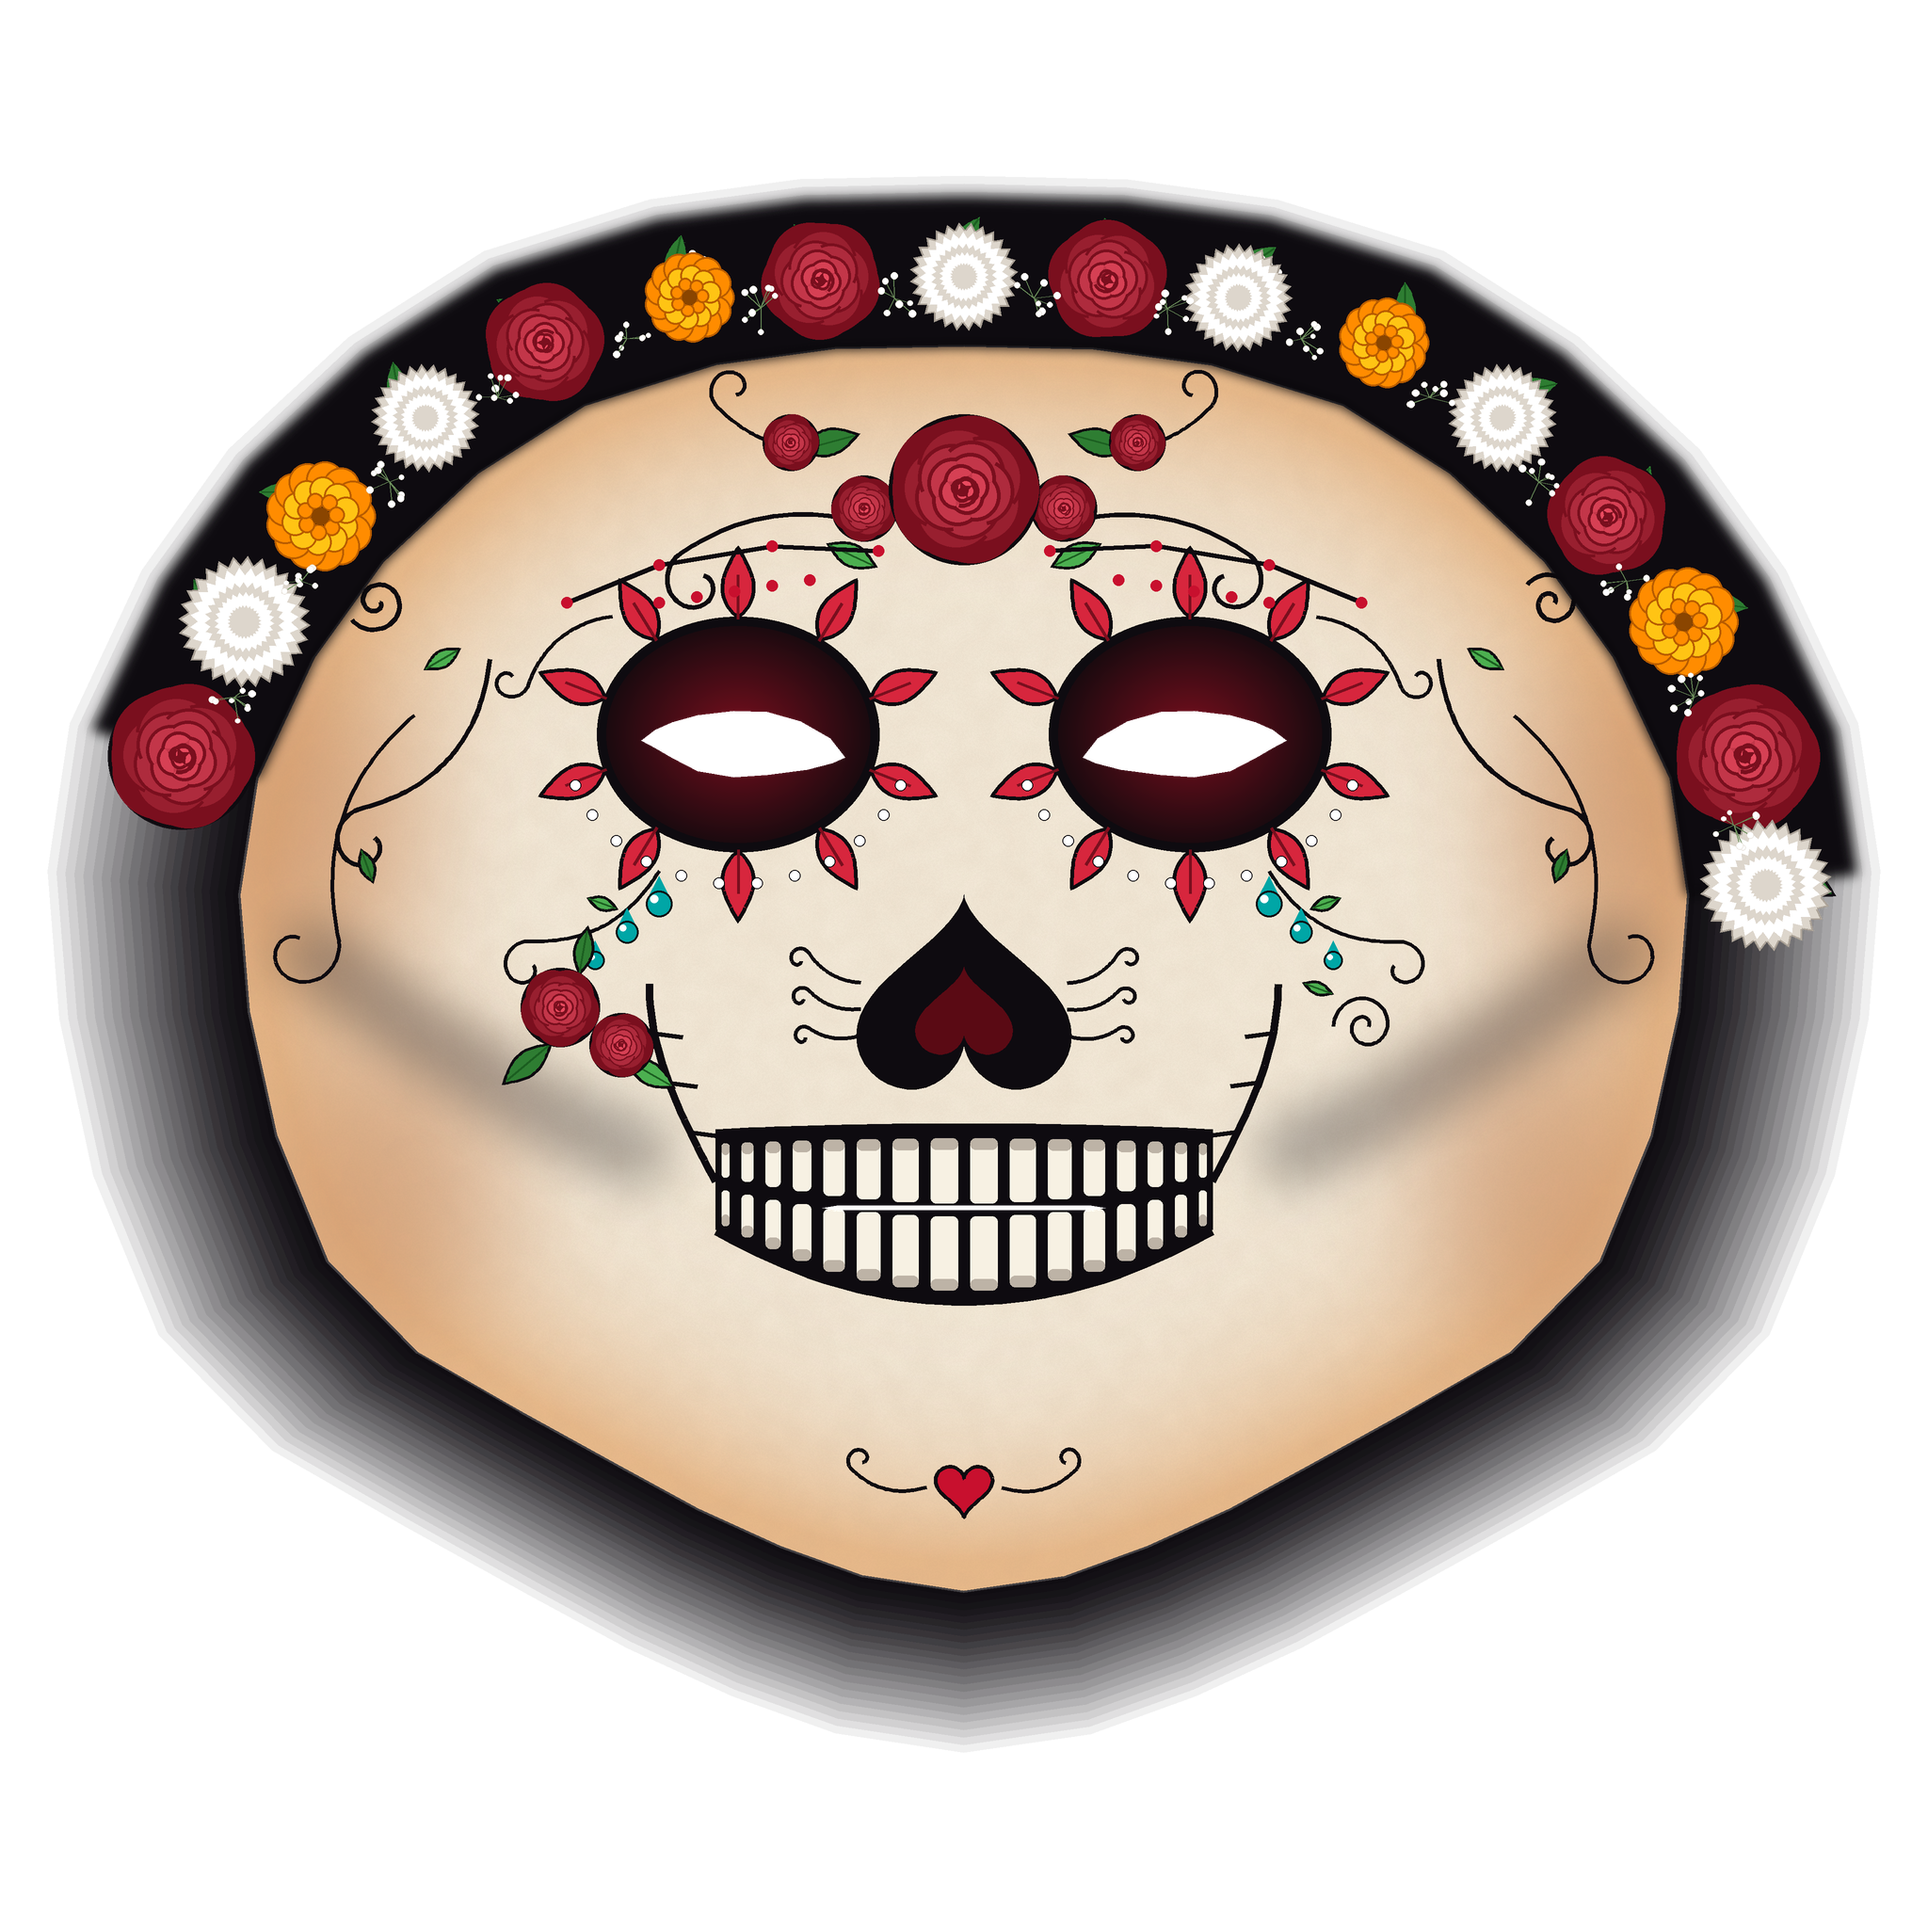
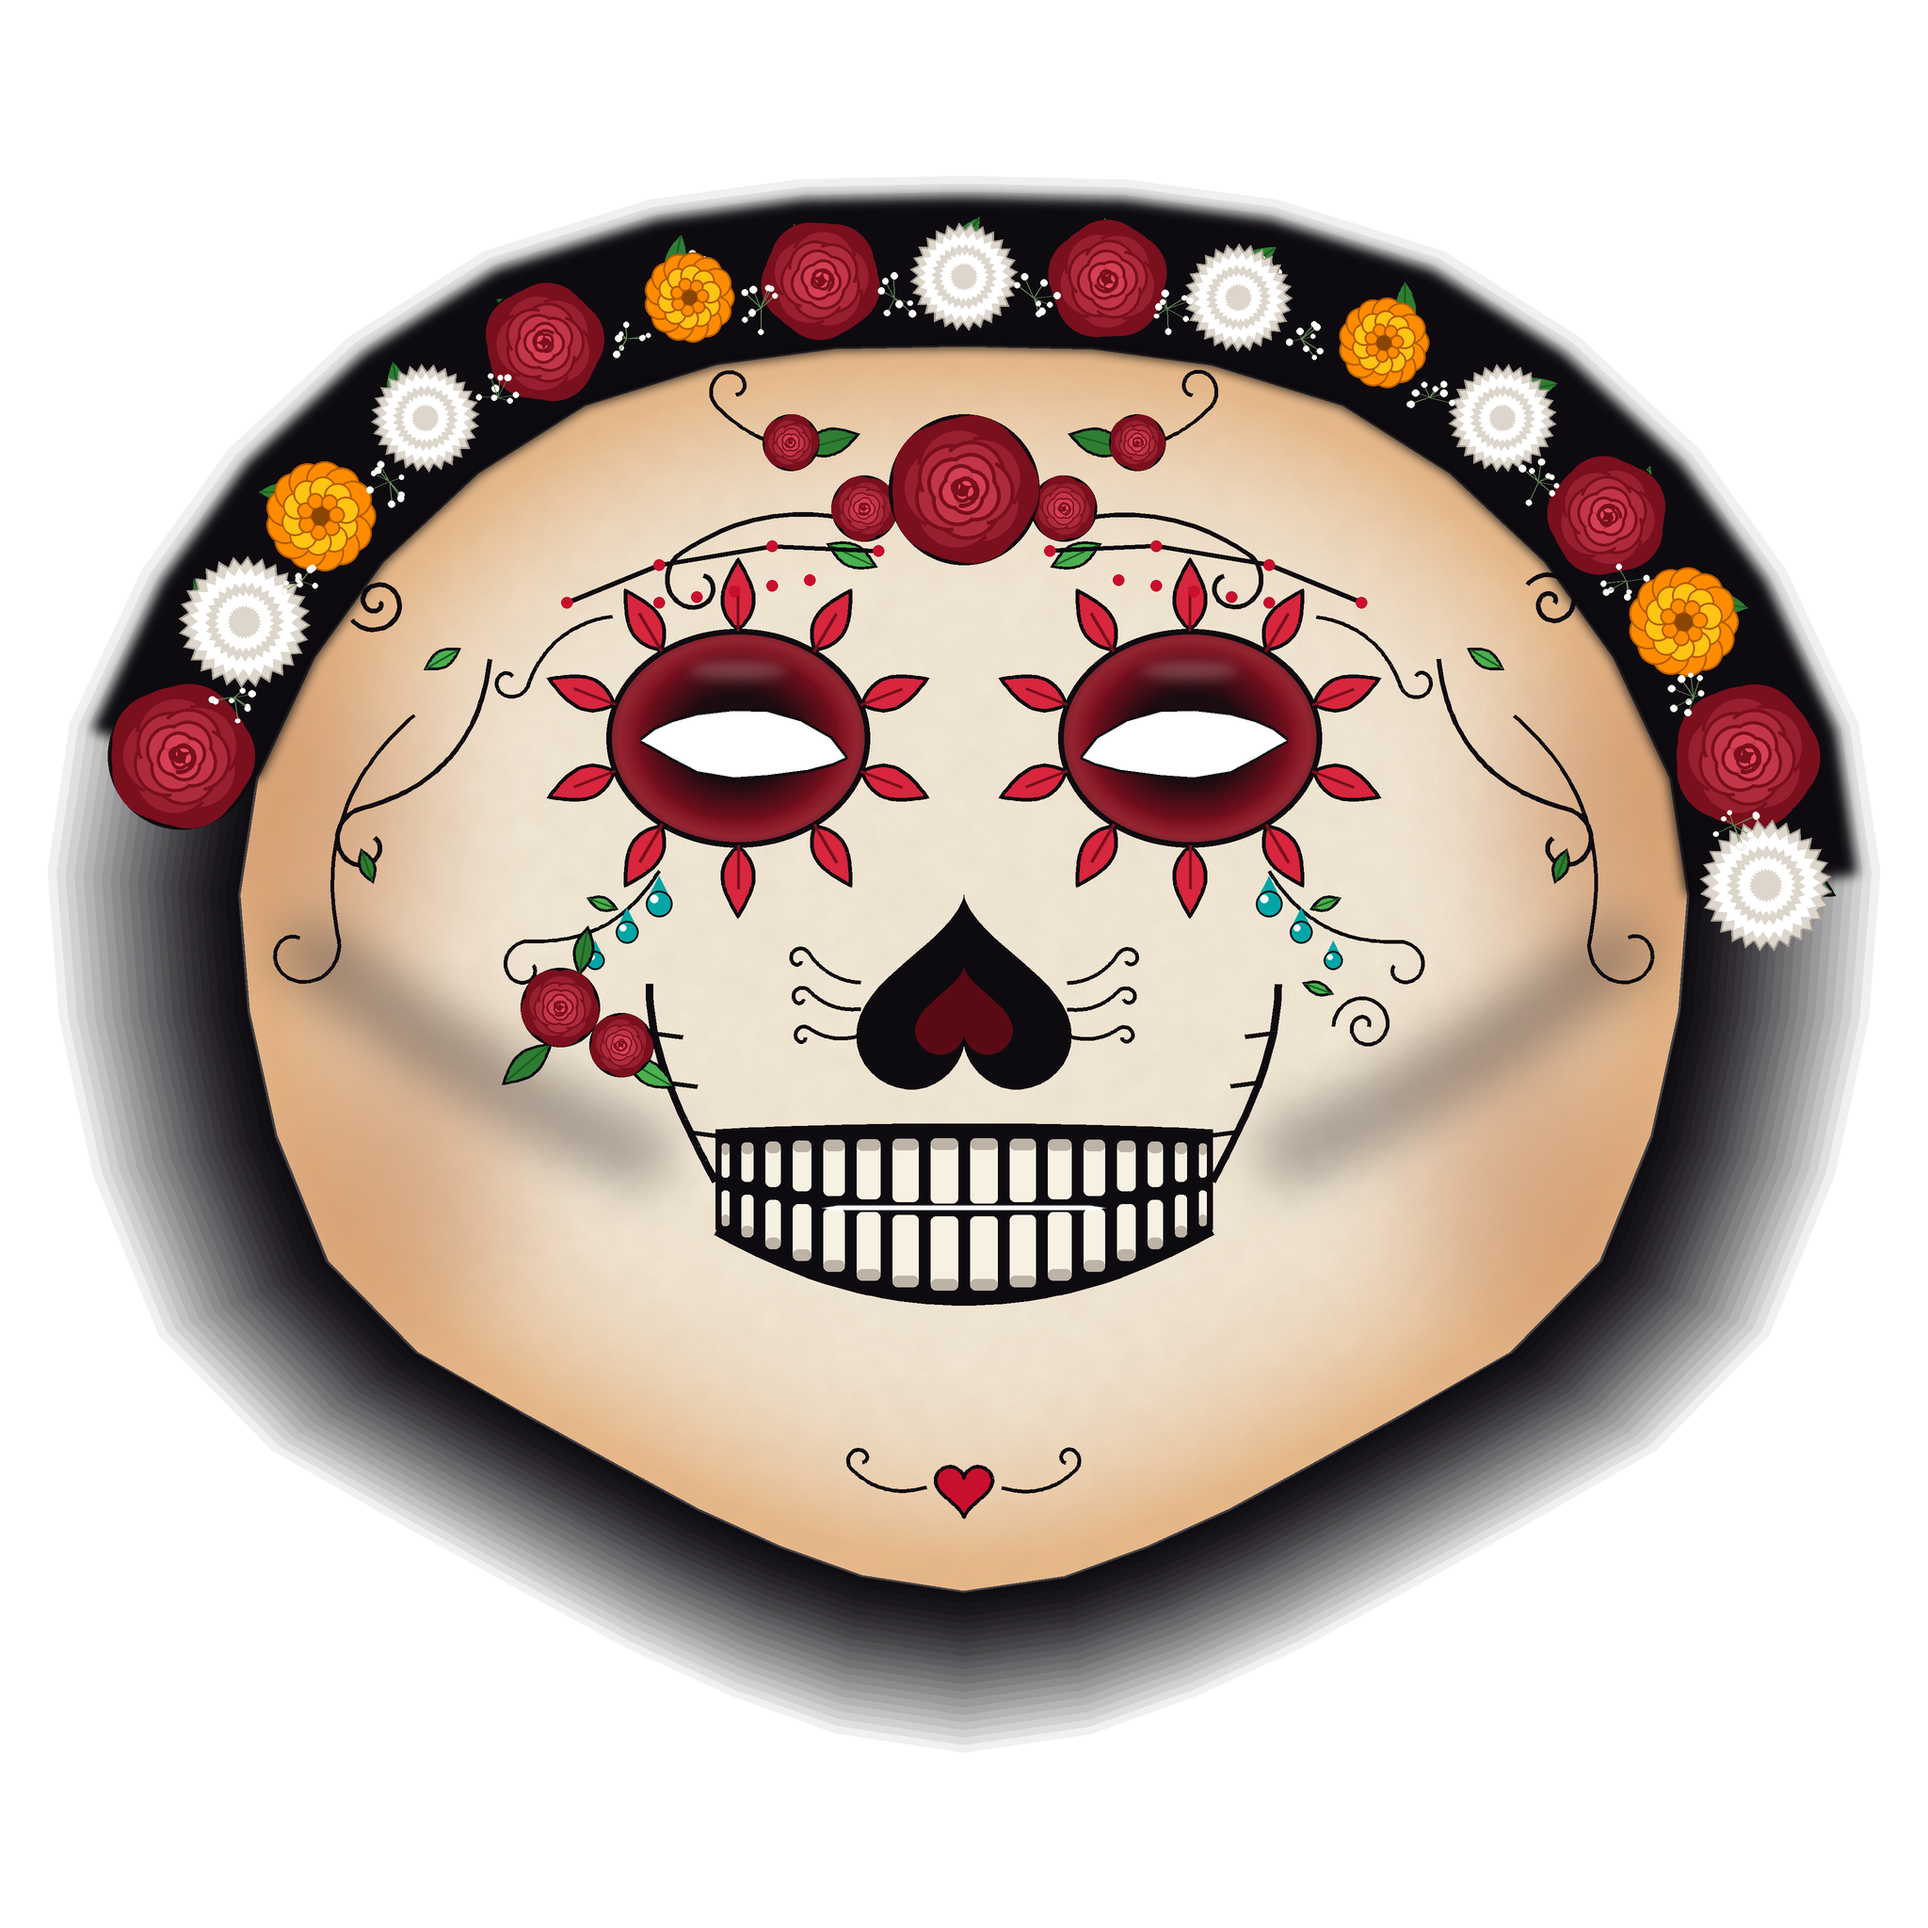
Ojos más naturales y selector de catrín o catrina

Changed region(s): [[0.2812, 0.2812, 0.7188, 0.4688]]

diff --git a/js/main.js b/js/main.js
@@ -246,22 +246,59 @@ async function crearDetector() {
   }
 }
 
+const texturas = {};
+let mascaraActual = null;
+
+async function cargarTextura(ruta) {
+  let tex;
+  try {
+    tex = await new THREE.TextureLoader().loadAsync(ruta);
+  } catch {
+    throw Object.assign(new Error('sin-textura'), {
+      mensaje: `No encontré la textura de la máscara (${ruta}).`,
+    });
+  }
+  tex.colorSpace = THREE.SRGBColorSpace;
+  tex.anisotropy = renderer.capabilities.getMaxAnisotropy();
+  return tex;
+}
+
+/** Cambia entre catrín y catrina (botones de abajo, o ?mascara=catrin). */
+function ponerMascara(nombre) {
+  if (!texturas[nombre]) return;
+  mascaraActual = nombre;
+  material.uniforms.mapa.value = texturas[nombre];
+  for (const b of document.querySelectorAll('#selector button')) {
+    b.setAttribute('aria-pressed', String(b.dataset.mascara === nombre));
+  }
+  try { localStorage.setItem('mascara', nombre); } catch {}
+}
+
+function leerPreferencia() {
+  try { return localStorage.getItem('mascara'); } catch { return null; }
+}
+
+for (const b of document.querySelectorAll('#selector button')) {
+  b.addEventListener('click', (e) => {
+    e.stopPropagation();
+    ponerMascara(b.dataset.mascara);
+  });
+}
+
 async function cargarMascara() {
   config = await (await fetch(RUTA_CONFIG)).json();
   const acabado = parametros.get('acabado') ?? config.acabado ?? 'maquillaje';
   aplicarAcabado(material, acabado, acabado === (config.acabado ?? 'maquillaje') ? config.ajustesAcabado : {});
   const base = RUTA_CONFIG.slice(0, RUTA_CONFIG.lastIndexOf('/') + 1);
-  let tex;
-  try {
-    tex = await new THREE.TextureLoader().loadAsync(base + config.textura);
-  } catch {
-    throw Object.assign(new Error('sin-textura'), {
-      mensaje: `No encontré la textura de la máscara (assets/mascara/${config.textura}).`,
-    });
-  }
-  tex.colorSpace = THREE.SRGBColorSpace;
-  tex.anisotropy = renderer.capabilities.getMaxAnisotropy();
-  material.uniforms.mapa.value = tex;
+  const lista = config.mascaras ?? { mascara: config.textura };
+  const nombres = Object.keys(lista);
+  let elegida = parametros.get('mascara') ?? leerPreferencia() ?? config.inicial;
+  if (!lista[elegida]) elegida = nombres[0];
+  texturas[elegida] = await cargarTextura(base + lista[elegida]);
+  ponerMascara(elegida);
+  // las demás se cargan en segundo plano para cambiar al instante
+  for (const n of nombres) if (!texturas[n]) cargarTextura(base + lista[n]).then((t) => (texturas[n] = t), () => {});
+  $('selector').hidden = nombres.length < 2;
   sonido.configurar(config.sonidos, base);
 }
 

diff --git a/css/estilos.css b/css/estilos.css
@@ -141,7 +141,34 @@ button {
 
 #grabar.grabando::after { inset: 16px; border-radius: 6px; }
 
-body.limpio #hud { display: none; }
+#selector {
+  position: fixed;
+  left: 50%;
+  bottom: calc(100px + env(safe-area-inset-bottom));
+  transform: translateX(-50%);
+  display: flex;
+  padding: 4px;
+  gap: 4px;
+  border-radius: 999px;
+  background: rgba(0, 0, 0, .45);
+  z-index: 5;
+}
+
+#selector[hidden] { display: none; }
+
+#selector button {
+  border: 0;
+  border-radius: 999px;
+  padding: 8px 18px;
+  font: inherit;
+  font-size: .95rem;
+  color: #fff;
+  background: transparent;
+}
+
+#selector button[aria-pressed="true"] { background: #b3263a; }
+
+body.limpio #hud, body.limpio #selector { display: none; }
 
 #depuracion {
   position: fixed;

diff --git a/index.html b/index.html
@@ -25,6 +25,11 @@
   <p id="aviso-cara" class="aviso oculto">Pon tu cara frente a la cámara</p>
   <p id="aviso-sonido" class="aviso aviso-arriba oculto">Toca la pantalla para activar el sonido 🔊</p>
 
+  <div id="selector" role="group" aria-label="Elegir máscara" hidden>
+    <button type="button" data-mascara="catrina" aria-pressed="true">Catrina</button>
+    <button type="button" data-mascara="catrin" aria-pressed="false">Catrín</button>
+  </div>
+
   <div id="hud">
     <div id="gestos">
       <span class="gesto" data-gesto="cejas" title="Levanta las cejas: papel picado">🎊</span>

diff --git a/tools/generar_texturas_catrines.py b/tools/generar_texturas_catrines.py
@@ -332,28 +332,51 @@ def mejillas_hundidas(l):
     l.pegar(capa, 0.4)
 
 
+CUENCA_RX, CUENCA_RY = 140, 116   # tamaño de las cuencas (px de 2048)
+CUENCA_Y = 784
+
+
 def cuencas(l, festonear, color_feston=NEGRO):
-    for cx in (784, 1264):
-        c = q(cx, 780)
-        rx, ry = 150 * K, 125 * K
-        # degradado radial vino -> negro
+    """Cuencas con profundidad: casi negras junto al ojo y rojo vino hacia la
+    orilla, con un contorno fino y delineado en el ojo real."""
+    for cx, ojo, signo in ((784, OJO_DER, -1), (1264, OJO_IZQ, 1)):
+        c = q(cx, CUENCA_Y)
+        rx, ry = CUENCA_RX * K, CUENCA_RY * K
         yy, xx = np.mgrid[0:2 * ry, 0:2 * rx]
         dist = np.sqrt(((xx - rx) / rx) ** 2 + ((yy - ry) / ry) ** 2)
-        t = np.clip(dist, 0, 1)[..., None]
-        col = (1 - t) * np.array(VINO[:3]) + t * np.array(NEGRO_CUENCA[:3])
-        alfa = (dist <= 1).astype(np.uint8) * 255
-        bloque = np.dstack([col.astype(np.uint8), alfa]).astype(np.uint8)
+        t = np.clip(dist, 0, 1)
+        humo = np.array(hexa("1A0C10")[:3], np.float32)
+        vino = np.array(VINO[:3], np.float32)
+        rosado = np.array(hexa("A8323F")[:3], np.float32)
+        a = np.clip((t - 0.4) / 0.38, 0, 1)[..., None]
+        b = np.clip((t - 0.75) / 0.25, 0, 1)[..., None]
+        col = humo * (1 - a) + vino * a
+        col = col * (1 - b) + rosado * b
+        # sombra interior en la orilla para que se vea hundida
+        orilla = np.clip((t - 0.9) / 0.1, 0, 1)[..., None]
+        col = col * (1 - 0.35 * orilla)
+        alfa = np.clip((1 - t) * 40, 0, 1) * 255
+        bloque = np.dstack([col.clip(0, 255).astype(np.uint8), alfa.astype(np.uint8)])
         capa = l.capa()
         capa.paste(Image.fromarray(bloque, "RGBA"), (int(c[0] - rx), int(c[1] - ry)))
         d = ImageDraw.Draw(capa)
         if festonear:
-            n = 26
+            n = 24
             for k in range(n):
-                a = 2 * math.pi * k / n
-                x = c[0] + math.cos(a) * rx
-                y = c[1] + math.sin(a) * ry
-                elipse(d, (x, y), 18 * K, 18 * K, fill=color_feston)
-        elipse(d, c, rx, ry, outline=NEGRO, width=10 * K)
+                ang = 2 * math.pi * k / n
+                x = c[0] + math.cos(ang) * (rx + 6 * K)
+                y = c[1] + math.sin(ang) * (ry + 6 * K)
+                elipse(d, (x, y), 15 * K, 15 * K, fill=color_feston)
+        elipse(d, c, rx, ry, outline=NEGRO, width=6 * K)
+        # delineado del ojo con una pequeña cola hacia afuera
+        contorno = [p(i) for i in ojo]
+        d.line(contorno + contorno[:1], fill=NEGRO, width=6 * K, joint="curve")
+        # brillo suave arriba, como en el maquillaje con sombra
+        brillo = l.capa()
+        db = ImageDraw.Draw(brillo)
+        elipse(db, (c[0], c[1] - ry * 0.62), rx * 0.42, ry * 0.12, fill=(255, 210, 210, 70))
+        brillo = brillo.filter(ImageFilter.GaussianBlur(8 * K))
+        capa.alpha_composite(brillo)
         l.pegar(capa)
 
 
@@ -361,8 +384,8 @@ def petalos_cuencas(l):
     capa = l.capa()
     d = ImageDraw.Draw(capa)
     for cx in (784, 1264):
-        c = q(cx, 780)
-        rx, ry = 150 * K, 125 * K
+        c = q(cx, CUENCA_Y)
+        rx, ry = CUENCA_RX * K, CUENCA_RY * K
         n = 10
         for k in range(n):
             a = 2 * math.pi * k / n + math.pi / n
@@ -387,8 +410,8 @@ def petalos_cuencas(l):
 def perlas_cuencas(l):
     d = ImageDraw.Draw(l.img)
     for cx in (784, 1264):
-        c = q(cx, 780)
-        rx, ry = 150 * K + 34 * K, 125 * K + 34 * K
+        c = q(cx, CUENCA_Y)
+        rx, ry = (CUENCA_RX + 30) * K, (CUENCA_RY + 30) * K
         for k in range(12):
             a = math.radians(20 + k * (140 / 11))
             x, y = c[0] + math.cos(a) * rx, c[1] + math.sin(a) * ry
@@ -540,7 +563,7 @@ def catrin():
     for cx in (784, 1264):
         for k, da in enumerate((-35, 0, 35)):
             a = math.radians(-90 + da)
-            bx, by = cx + math.cos(a) * 172, 780 + math.sin(a) * 150
+            bx, by = cx + math.cos(a) * (CUENCA_RX + 24), CUENCA_Y + math.sin(a) * (CUENCA_RY + 24)
             hoja(d, q(bx, by), 54 * K, 26 * K, a, ROJO_PETALO)
     # cruz latina roja con puntas de flor de lis
     cx, top, bot = 1024, 470, 622
@@ -600,8 +623,6 @@ def catrina():
     filigrana_comun(l)
     cuencas(l, festonear=False)
     petalos_cuencas(l)
-    cuencas_borde = ImageDraw.Draw(l.img)
-    perlas_cuencas(l)
     nariz(l)
     dientes(l)
 

diff --git a/README.md b/README.md
@@ -6,7 +6,7 @@ Actividad 3 · Máscara de Día de Muertos con mapeo facial de precisión (mejor
 
 ![Catrín (arriba) y catrina (abajo) sobre la malla en Blender, de frente, a 30° y a 60°](docs/img/catrin_catrina_blender.jpg)
 
-Hay dos máscaras: **catrín** (`assets/mascara/textura_catrin.png`) y **catrina** (`assets/mascara/textura_catrina.png`). El filtro carga `assets/mascara/textura.png`, que es la catrina. Se generan con `tools/generar_texturas_catrines.py` siguiendo el diseño de [docs/DISENO_CATRINES.md](docs/DISENO_CATRINES.md), y se pueden retocar a mano en Blender con [docs/GUIA_TEXTURA.md](docs/GUIA_TEXTURA.md).
+Hay dos máscaras: **catrín** (`assets/mascara/textura_catrin.png`) y **catrina** (`assets/mascara/textura_catrina.png`). Se eligen con los botones **Catrina / Catrín** de abajo (o con `?mascara=catrin` en la dirección); la última elegida se recuerda. Empieza con la catrina (`inicial` en `mascara.json`). Se generan con `tools/generar_texturas_catrines.py` siguiendo el diseño de [docs/DISENO_CATRINES.md](docs/DISENO_CATRINES.md), y se pueden retocar a mano en Blender con [docs/GUIA_TEXTURA.md](docs/GUIA_TEXTURA.md).
 
 ## Acabado realista: maquillaje sobre la piel
 
@@ -83,6 +83,7 @@ Opciones en la dirección:
 
 - `?debug` muestra los valores de los gestos, el giro de la cabeza en grados, el error del ajuste y los cuadros por segundo. La tecla 3 simula levantar las cejas.
 - `?acabado=plano` muestra la máscara plana, sin la luz de la piel.
+- `?mascara=catrin` o `?mascara=catrina` abre con esa máscara.
 - `?limpio` oculta los botones (para grabar).
 
 ## Estructura
@@ -102,7 +103,7 @@ js/
   datos-cara.js               triángulos, UV y cara de referencia (generado)
 assets/mascara/
   mascara.json                configuración de la máscara
-  textura.png                 textura que carga el filtro (copia de la catrina)
+  textura.png                 copia de la catrina (respaldo si no hay "mascaras")
   textura_catrina.png, textura_catrin.png  las dos máscaras
 plantilla/
   plantilla_uv.png            plantilla UV con fondo blanco
